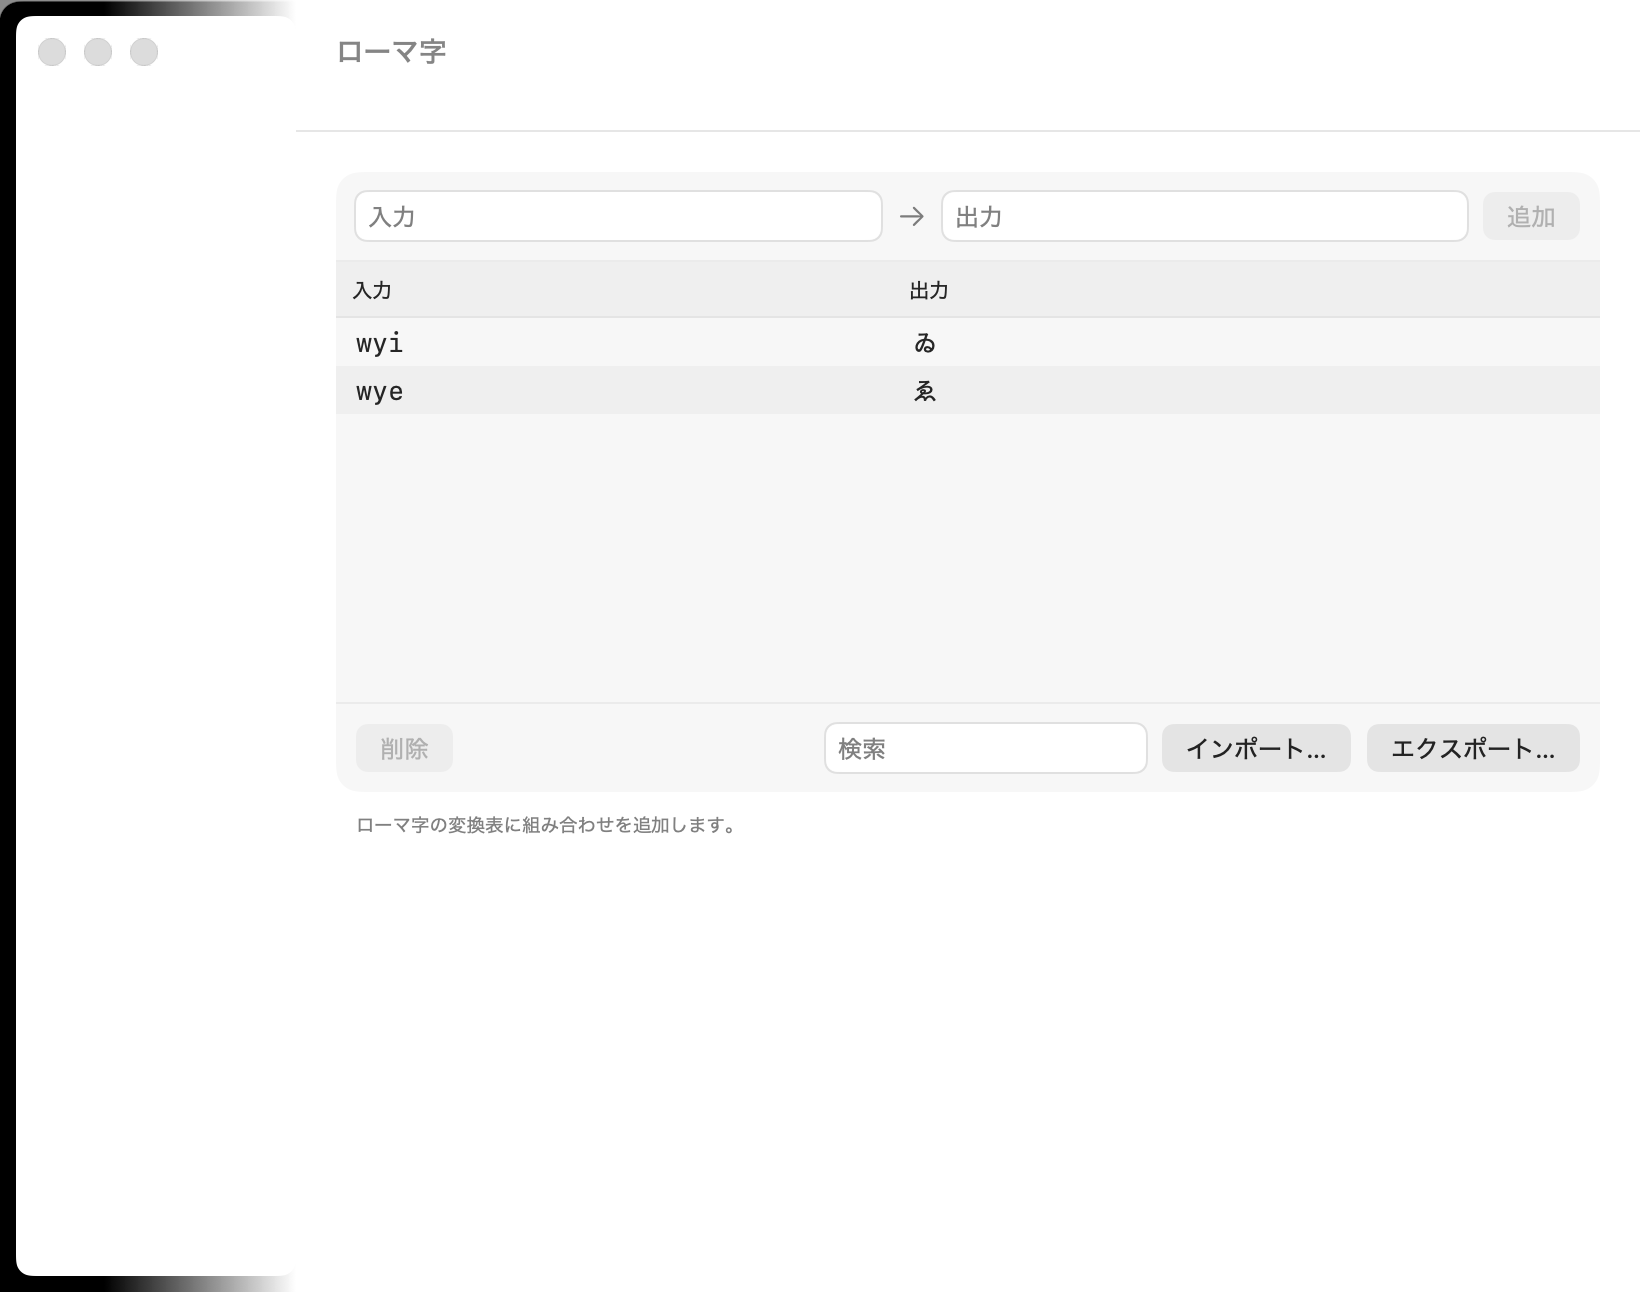
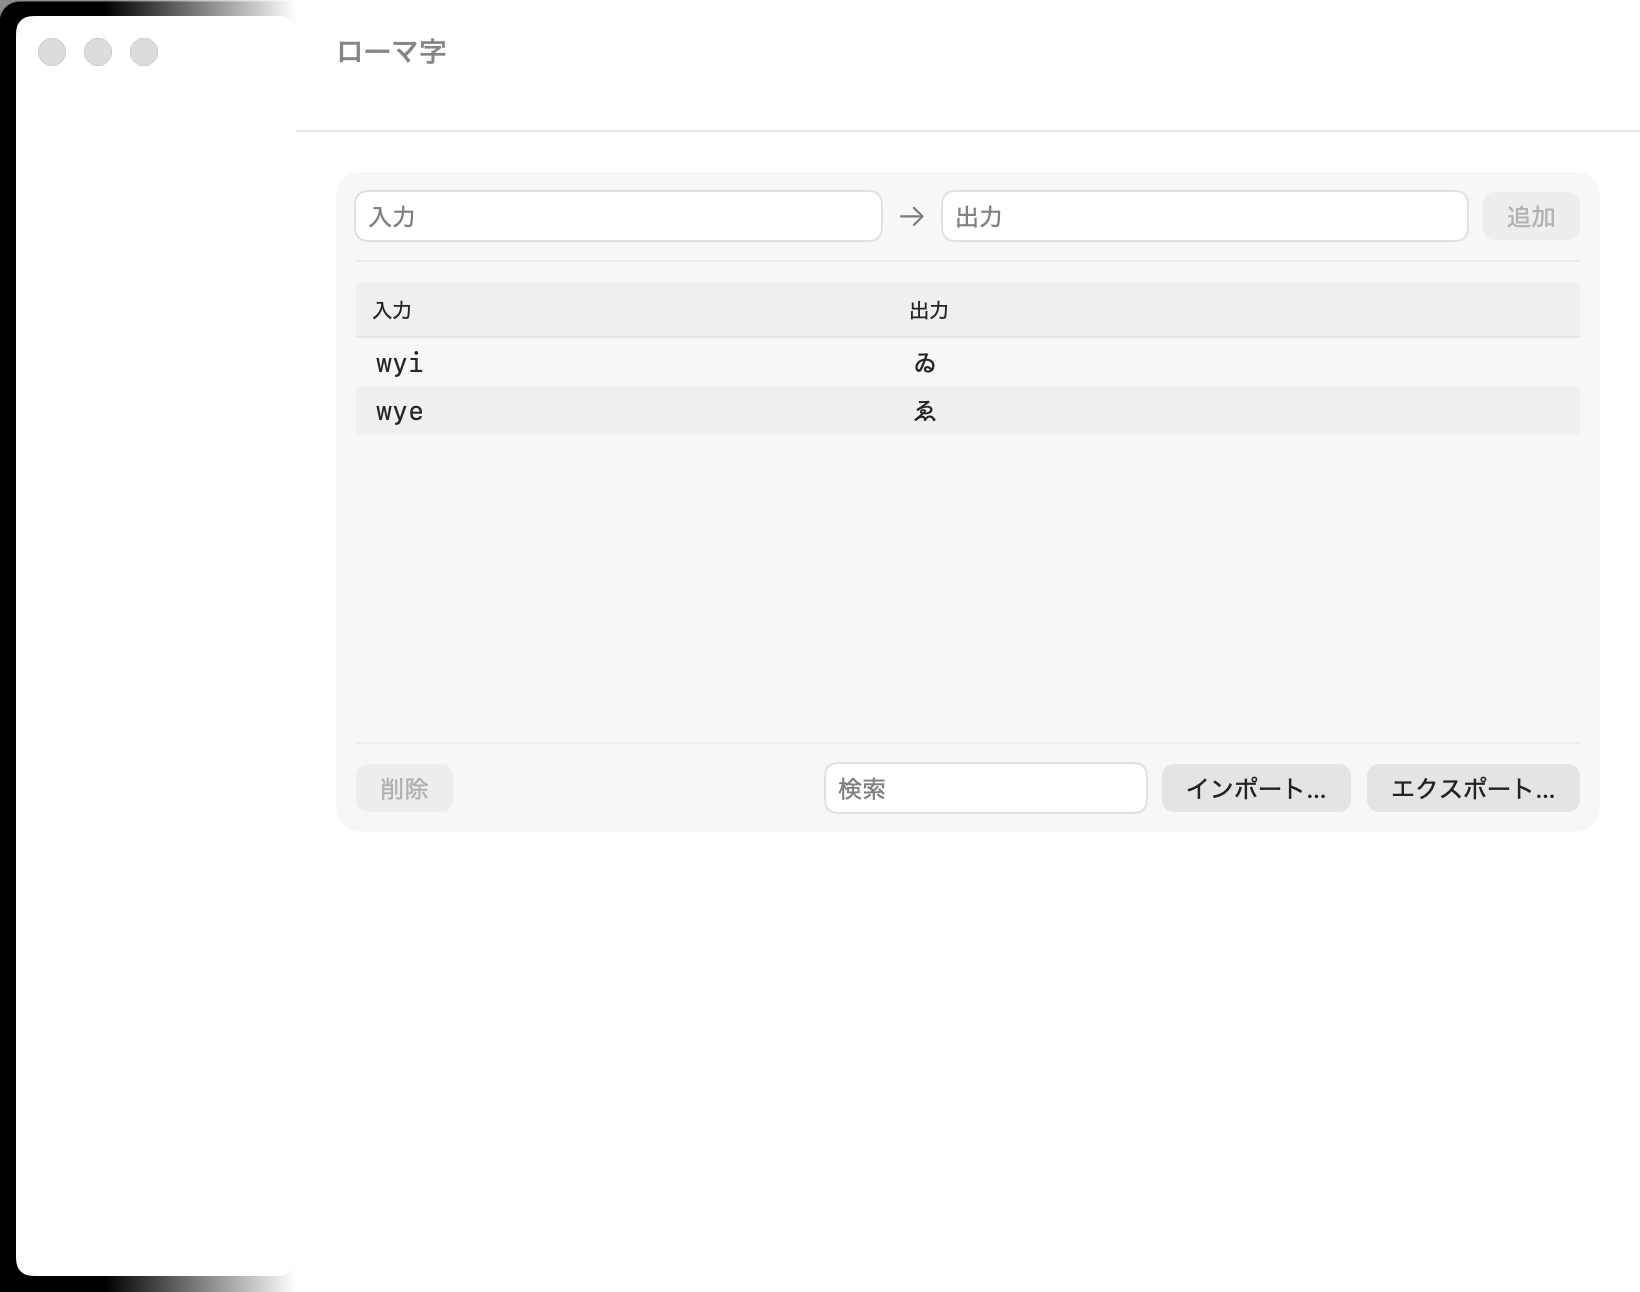
fix(macos): 設定の一覧が空のときの表示を小さな 1 行にし，Form の中の表をスクロールできるようにする

diff --git a/apps/macos/S90IME/Settings/FormTable.swift b/apps/macos/S90IME/Settings/FormTable.swift
@@ -1,0 +1,97 @@
+import AppKit
+import SwiftUI
+
+/// Form(.grouped)の中に置く表を，表の中でスクロールできるようにする．
+///
+/// Form は中に置いた表(Table)を行に埋め込むものとして扱い，表の縦のスクロールを止める(スクロールバーを出さず，ホイールでも動かない)．
+/// 高さを決めた表では，はみ出した行が見えなくなる．scrollDisabled(false)・isScrollEnabled・別の NSHostingView に入れる，
+/// のどれでも戻らない(macOS 26 で確かめた)．表は止められたホイールの動きを外(レスポンダチェーン)へ渡すので，
+/// 表を AppKit の入れ物(DetachedContainer)に入れてその動きを受け，表の中を動かす．
+/// 表は入れ物の中の NSHostingView で描く．中身は更新のたびに入れ替えるので，状態とバインディングはそのまま効く
+struct FormTableHost<Content: View>: NSViewRepresentable {
+    private let content: Content
+
+    init(@ViewBuilder content: () -> Content) {
+        self.content = content()
+    }
+
+    func makeNSView(context: Context) -> DetachedContainer {
+        let hosting = NSHostingView(rootView: content)
+        // 大きさは外(Form の行の frame)で決める
+        hosting.sizingOptions = []
+        return DetachedContainer(hosting: hosting)
+    }
+
+    func updateNSView(_ view: DetachedContainer, context: Context) {
+        view.hosting.rootView = content
+    }
+
+    /// 表を入れる入れ物．表が渡してきたホイールの動きで，表の中をスクロールする
+    final class DetachedContainer: NSView, FormTableContainer {
+        let hosting: NSHostingView<Content>
+
+        init(hosting: NSHostingView<Content>) {
+            self.hosting = hosting
+            super.init(frame: .zero)
+            hosting.frame = bounds
+            hosting.autoresizingMask = [.width, .height]
+            addSubview(hosting)
+        }
+
+        @available(*, unavailable)
+        required init?(coder: NSCoder) { nil }
+
+        /// 中の表のスクロールビュー(表の行を並べる NSTableView を持つもの)
+        private var tableScrollView: NSScrollView? {
+            var stack: [NSView] = [hosting]
+            while let view = stack.popLast() {
+                if let scroll = view as? NSScrollView, scroll.documentView is NSTableView { return scroll }
+                stack.append(contentsOf: view.subviews)
+            }
+            return nil
+        }
+
+        override func layout() {
+            super.layout()
+            // Form が消したスクロールバーを出す(行がはみ出していることが見て分かるように)
+            if let scroll = tableScrollView, !scroll.hasVerticalScroller {
+                scroll.hasVerticalScroller = true
+                scroll.autohidesScrollers = true
+            }
+        }
+
+        /// 表はスクロールを止められているので，ホイールの動きを受け取って表の中を動かす．
+        /// 表の端まで動かしたあとの動きは外(ページ)へ渡し，ページもスクロールできるようにする
+        override func scrollWheel(with event: NSEvent) {
+            guard let scroll = tableScrollView, let document = scroll.documentView else { return super.scrollWheel(with: event) }
+            let clip = scroll.contentView
+            let top = -scroll.contentInsets.top
+            let bottom = max(top, document.frame.height - clip.bounds.height)
+            let delta = event.hasPreciseScrollingDeltas ? event.scrollingDeltaY : event.scrollingDeltaY * scroll.verticalLineScroll
+            let current = clip.bounds.origin.y
+            let target = min(max(current - delta, top), bottom)
+            guard target != current else { return super.scrollWheel(with: event) }
+            clip.scroll(to: NSPoint(x: clip.bounds.origin.x, y: target))
+            scroll.reflectScrolledClipView(clip)
+        }
+    }
+}
+
+/// FormTableHost の入れ物の目印(見本の画像に写すときに探す)
+protocol FormTableContainer: NSView {}
+
+/// 表が空のとき(検索に合う行が無いときも)に表の中に出す 1 行．システム設定の空の一覧と同じく，薄い小さな字だけにする
+struct EmptyListLabel: View {
+    let text: String
+
+    var body: some View {
+        Text(text)
+            .font(.callout)
+            .foregroundStyle(.secondary)
+            .lineLimit(1)
+            .padding()
+            .frame(maxWidth: .infinity, maxHeight: .infinity)
+            // 表を選んだり右クリックしたりするのを妨げない
+            .allowsHitTesting(false)
+    }
+}

diff --git a/apps/macos/S90IME/App/SnapshotRenderer.swift b/apps/macos/S90IME/App/SnapshotRenderer.swift
@@ -229,8 +229,65 @@ enum SnapshotRenderer {
         rep.size = size
         (appearance ?? NSAppearance(named: .aqua)!).performAsCurrentDrawingAppearance {
             view.cacheDisplay(in: view.bounds, to: rep)
+            drawNestedTables(of: view, into: rep)
         }
         try? rep.representation(using: .png, properties: [:])?.write(to: directory.appendingPathComponent("\(name).png"))
+    }
+
+    /// Form の中の表(FormTableHost)は別の NSHostingView で描くので，外のビューの cacheDisplay では写らない(白く抜ける)．
+    /// 表のすぐ左(Form の行の地)の色で塗り，表の入れ物と見えている行を 1 つずつ写して乗算で重ねる．
+    /// cacheDisplay は透明なところを白で埋めるので，乗算で白を地の色に戻す．
+    /// ダークの外観では白い文字が乗算で消えるので，表の中は写らない(地の色だけになる)
+    static func drawNestedTables(of root: NSView, into rep: NSBitmapImageRep) {
+        guard let context = NSGraphicsContext(bitmapImageRep: rep) else { return }
+        let scale = CGFloat(rep.pixelsWide) / root.bounds.width
+        // rep は左下が原点
+        let flip = { (rect: NSRect) -> NSRect in
+            var rect = rect
+            if root.isFlipped { rect.origin.y = root.bounds.height - rect.maxY }
+            return rect
+        }
+        var stack = root.subviews
+        while let view = stack.popLast() {
+            guard !view.isHiddenOrHasHiddenAncestor else { continue }
+            guard view is FormTableContainer else {
+                stack.append(contentsOf: view.subviews)
+                continue
+            }
+            let frame = view.convert(view.bounds, to: root)
+            // colorAt は左上が原点
+            let fromTop = root.isFlipped ? frame.midY : root.bounds.height - frame.midY
+            guard let ground = rep.colorAt(x: Int((frame.minX - 4) * scale), y: Int(fromTop * scale)) else { continue }
+            NSGraphicsContext.saveGraphicsState()
+            NSGraphicsContext.current = context
+            ground.setFill()
+            flip(frame).fill()
+            NSGraphicsContext.restoreGraphicsState()
+            draw(view, at: flip(frame), into: context, clip: nil)
+            var rows = view.subviews
+            while let row = rows.popLast() {
+                guard row is NSTableRowView, let scroll = row.enclosingScrollView else {
+                    rows.append(contentsOf: row.subviews)
+                    continue
+                }
+                // 見出しの下(contentInsets.top より下)の，行が見えている範囲で切る
+                let clip = scroll.contentView
+                var visible = clip.bounds
+                visible.size.height -= scroll.contentInsets.top
+                if clip.isFlipped { visible.origin.y += scroll.contentInsets.top }
+                draw(row, at: flip(row.convert(row.bounds, to: root)), into: context, clip: flip(clip.convert(visible, to: root)))
+            }
+        }
+    }
+
+    private static func draw(_ view: NSView, at rect: NSRect, into context: NSGraphicsContext, clip: NSRect?) {
+        guard let image = view.bitmapImageRepForCachingDisplay(in: view.bounds) else { return }
+        view.cacheDisplay(in: view.bounds, to: image)
+        NSGraphicsContext.saveGraphicsState()
+        NSGraphicsContext.current = context
+        if let clip { NSBezierPath(rect: clip).setClip() }
+        image.draw(in: rect, from: .zero, operation: .multiply, fraction: 1, respectFlipped: false, hints: nil)
+        NSGraphicsContext.restoreGraphicsState()
     }
 }
 #endif

diff --git a/apps/macos/S90IME/Settings/ExclusionsPage.swift b/apps/macos/S90IME/Settings/ExclusionsPage.swift
@@ -11,30 +11,33 @@ struct ExclusionsPage: View {
     var body: some View {
         Form {
             Section {
-                Table(model.settings.profileRules, selection: $selection) {
-                    TableColumn(UIStrings.More.apps) { rule in
-                        Text(rule.applicationPrefix).lineLimit(1).truncationMode(.middle)
-                    }
-                    TableColumn(UIStrings.More.behavior) { rule in
-                        Picker("", selection: Binding(get: { rule.profile }, set: { change(rule, to: $0) })) {
-                            ForEach(Self.profiles, id: \.self) { Text(UIStrings.Settings.label(for: $0)).tag($0) }
+                // Form の中でも表の中でスクロールできるよう，FormTableHost に入れる
+                FormTableHost {
+                    Table(model.settings.profileRules, selection: $selection) {
+                        TableColumn(UIStrings.More.apps) { rule in
+                            Text(rule.applicationPrefix).lineLimit(1).truncationMode(.middle)
                         }
-                        .labelsHidden()
+                        TableColumn(UIStrings.More.behavior) { rule in
+                            Picker("", selection: Binding(get: { rule.profile }, set: { change(rule, to: $0) })) {
+                                ForEach(Self.profiles, id: \.self) { Text(UIStrings.Settings.label(for: $0)).tag($0) }
+                            }
+                            .labelsHidden()
+                        }
+                        .width(min: 150, ideal: 170)
                     }
-                    .width(min: 150, ideal: 170)
-                }
-                .onDeleteCommand(perform: removeSelected)
-                .contextMenu(forSelectionType: ProfileRule.self) { picked in
-                    if !picked.isEmpty {
-                        Button(UIStrings.Settings.remove) {
-                            selection = picked
-                            removeSelected()
+                    .onDeleteCommand(perform: removeSelected)
+                    .contextMenu(forSelectionType: ProfileRule.self) { picked in
+                        if !picked.isEmpty {
+                            Button(UIStrings.Settings.remove) {
+                                selection = picked
+                                removeSelected()
+                            }
                         }
                     }
-                }
-                .overlay {
-                    if model.settings.profileRules.isEmpty {
-                        ContentUnavailableView(UIStrings.More.exclusionsEmpty, systemImage: "app.dashed")
+                    .overlay {
+                        if model.settings.profileRules.isEmpty {
+                            EmptyListLabel(text: UIStrings.More.exclusionsEmpty)
+                        }
                     }
                 }
                 .frame(height: DesignTokens.Size.Settings.ruleTableHeight)

diff --git a/apps/macos/S90IME/Settings/RuleListEditor.swift b/apps/macos/S90IME/Settings/RuleListEditor.swift
@@ -34,7 +34,7 @@ struct RuleListEditor: View {
         var value: String?
         var keyPrompt: String?
         var valuePrompt: String?
-        /// 一覧が空のときの見出しと説明
+        /// 一覧が空のときに表の中に出す文
         var empty: String
     }
 
@@ -195,31 +195,34 @@ struct RuleListEditor: View {
         .width(min: 120, ideal: 240)
     }
 
-    /// 表に共通の操作(ダブルクリックで編集，右クリック，Delete キーで削除，空のときの案内)
+    /// 表に共通の操作(ダブルクリックで編集，右クリック，Delete キーで削除，空のときの案内)．
+    /// Form の中でも表の中でスクロールできるよう，FormTableHost に入れる
     private func decorated(_ table: some View) -> some View {
-        table
-            .contextMenu(forSelectionType: RuleItem.ID.self) { ids in
-                let picked = items.filter { ids.contains($0.id) }
-                if picked.count == 1, let item = picked.first {
-                    Button(UIStrings.RuleList.edit) { edit(item) }
+        FormTableHost {
+            table
+                .contextMenu(forSelectionType: RuleItem.ID.self) { ids in
+                    let picked = items.filter { ids.contains($0.id) }
+                    if picked.count == 1, let item = picked.first {
+                        Button(UIStrings.RuleList.edit) { edit(item) }
+                    }
+                    if !picked.filter({ $0.removal != .none }).isEmpty {
+                        Button(removeTitle(for: picked)) { removeItems(picked) }
+                    }
+                } primaryAction: { ids in
+                    if ids.count == 1, let item = items.first(where: { ids.contains($0.id) }) { edit(item) }
                 }
-                if !picked.filter({ $0.removal != .none }).isEmpty {
-                    Button(removeTitle(for: picked)) { removeItems(picked) }
-                }
-            } primaryAction: { ids in
-                if ids.count == 1, let item = items.first(where: { ids.contains($0.id) }) { edit(item) }
-            }
-            .onDeleteCommand { removeItems(items.filter { selection.contains($0.id) }) }
-            .overlay { emptyState }
-            .frame(height: tableHeight)
+                .onDeleteCommand { removeItems(items.filter { selection.contains($0.id) }) }
+                .overlay { emptyState }
+        }
+        .frame(height: tableHeight)
     }
 
     @ViewBuilder
     private var emptyState: some View {
         if items.isEmpty {
-            ContentUnavailableView(labels.empty, systemImage: "list.bullet.rectangle")
+            EmptyListLabel(text: labels.empty)
         } else if shownItems.isEmpty {
-            ContentUnavailableView.search(text: query)
+            EmptyListLabel(text: UIStrings.RuleList.noMatches)
         }
     }
 

diff --git a/apps/macos/S90IME/UI/UIStrings.swift b/apps/macos/S90IME/UI/UIStrings.swift
@@ -277,6 +277,7 @@ enum UIStrings {
         static func overwrites(_ key: String) -> String { "「\(key)」はもうあります。追加すると上書きします。" }
         static let alreadyRegistered = "もう登録してあります。"
         static let full = "これ以上は追加できません。"
+        static let noMatches = "一致する項目はありません"
     }
 
     enum Settings {
